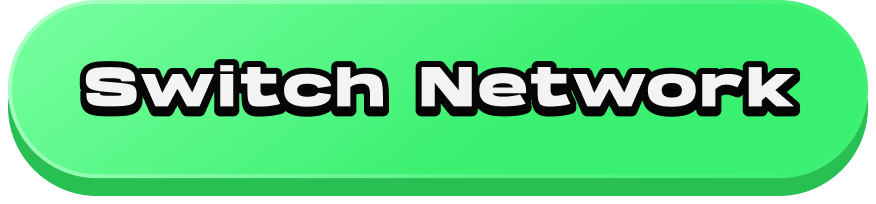
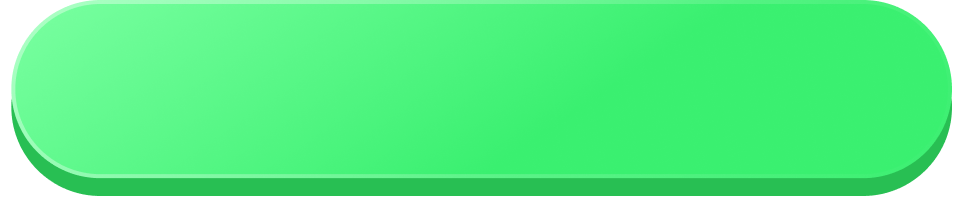
update

diff --git a/src/components/swap/confirm-button.tsx b/src/components/swap/confirm-button.tsx
@@ -9,6 +9,8 @@ import useFromWallet from "@/hooks/useFromWallet";
 import {getWalletNameForChainId} from "@/lib/configs";
 import {setShowConfirmCard} from "@/store/global/global-slice";
 import styles from './scss/swap.module.scss'
+import { hansonFont } from "@/fonts";
+import hanson from "@/fonts/hanson";
 
 const EvmConfirmButton = ({
                               disabled,
@@ -41,12 +43,11 @@ const EvmConfirmButton = ({
             return (
                 <Button
                     variant="transparent"
-                    className={styles.confirm_btn}
+                    className={` ${hanson.className} ${styles.confirm_btn}`}
                     onClick={onSubmit}
                     disabled={disabled || !selectedRoute || selectedRoute === "empty"
                         || (selectedRoute?.dstChain?.chainId == '56' && to?.token?.id == 12264)}
                     h={44}
-                    w={120}
                 >
                     {"Confirm"}
                 </Button>
@@ -56,7 +57,7 @@ const EvmConfirmButton = ({
                 //Switch Network
                 <Button
                     variant="transparent"
-                    className={styles.switch_network_btn}
+                    className={` ${hanson.className} ${styles.switch_network_btn}`}
                     disabled={disabled}
                     onClick={handleSwitchNetwork}
                     h={49}
@@ -71,7 +72,7 @@ const EvmConfirmButton = ({
             //Connect Network
             <Button
                 variant="transparent"
-                className={styles.connect_btn}
+                className={` ${hanson.className} ${styles.connect_btn}`}
                 // loading={isConnecting}
                 onClick={() => {
                     connectWallet(WalletName.EVM);
@@ -116,9 +117,9 @@ const ConfirmButton = ({
             //Confirm
             <Button
                 variant="transparent"
-                className={styles.confirm_btn}
+                className={` ${hanson.className} ${styles.confirm_btn}`}
                 disabled={disabled || !selectedRoute || selectedRoute === "empty" || (selectedRoute?.dstChain?.chainId == '56' && to?.token?.id == 12264)}
-                onClick={onSubmit} h={44}   w={120}>
+                onClick={onSubmit} h={44}   >
                 {"Confirm"}
             </Button>
         )
@@ -127,7 +128,7 @@ const ConfirmButton = ({
         // "Connect Network"
         <Button
             variant="transparent"
-            className={styles.connect_btn}
+            className={` ${hanson.className} ${styles.connect_btn}`}
             onClick={async () => {
                 connectWallet(fromWalletName);
             }}

diff --git a/src/components/swap/scss/swap.module.scss b/src/components/swap/scss/swap.module.scss
@@ -1,14 +1,14 @@
 .confirm_btn{
   background: url("/images/swap/confirm.png") no-repeat;
   background-size: 100% 100%;
+  border-radius: 25px;
 
   color: #F3F3F3;
 
   text-align: center;
   text-shadow: 0px 1px 0px #000;
-  -webkit-text-stroke-width: 1.5;
+  -webkit-text-stroke-width: 1.4px;
   -webkit-text-stroke-color: #060606;
-  font-family: Hanson;
   font-size: 14px;
   font-style: normal;
   font-weight: 700;
@@ -19,11 +19,13 @@
 .connect_btn{
   background: url("/images/swap/connect_network.png") no-repeat;
   background-size: 100% 100%;
+  border-radius: 25px;
 }
 
 .switch_network_btn{
   background: url("/images/swap/switch_network.png") no-repeat;
   background-size: 100% 100%;
+  border-radius: 25px;
 }
 
 //

diff --git a/src/components/my-wallet/my-wallet.tsx b/src/components/my-wallet/my-wallet.tsx
@@ -80,6 +80,9 @@ const MyWallet = () => {
             }
             console.log(`mtTokens`, myTokens)
 
+
+            try{
+
             if (!!currentWallet) {
                 console.log(`currentWallet`, currentWallet, chainId)
                 const balances = await currentWallet.getBalances(
@@ -129,6 +132,11 @@ const MyWallet = () => {
                 if(myTokensResult.length == 0) {
                     setShowNoDate(true)
                 }
+                setTokensLoading(false)
+            }
+
+            }catch(err) {
+                setShowNoDate(true)
                 setTokensLoading(false)
             }
         }

diff --git a/src/fonts/hanson.ts b/src/fonts/hanson.ts
@@ -1,0 +1,13 @@
+import localFont from "next/font/local";
+
+const hansonFont = localFont({
+    src: [
+        {
+            path: "../../public/fonts/hanson/Hanson-Bold-700.otf",
+            weight: "700",
+            style: "normal"
+        },
+    ]
+})
+
+export default hansonFont;

diff --git a/src/fonts/index.ts b/src/fonts/index.ts
@@ -1,0 +1,5 @@
+import hansonFont from "@/fonts/hanson";
+
+export {
+    hansonFont,
+};
